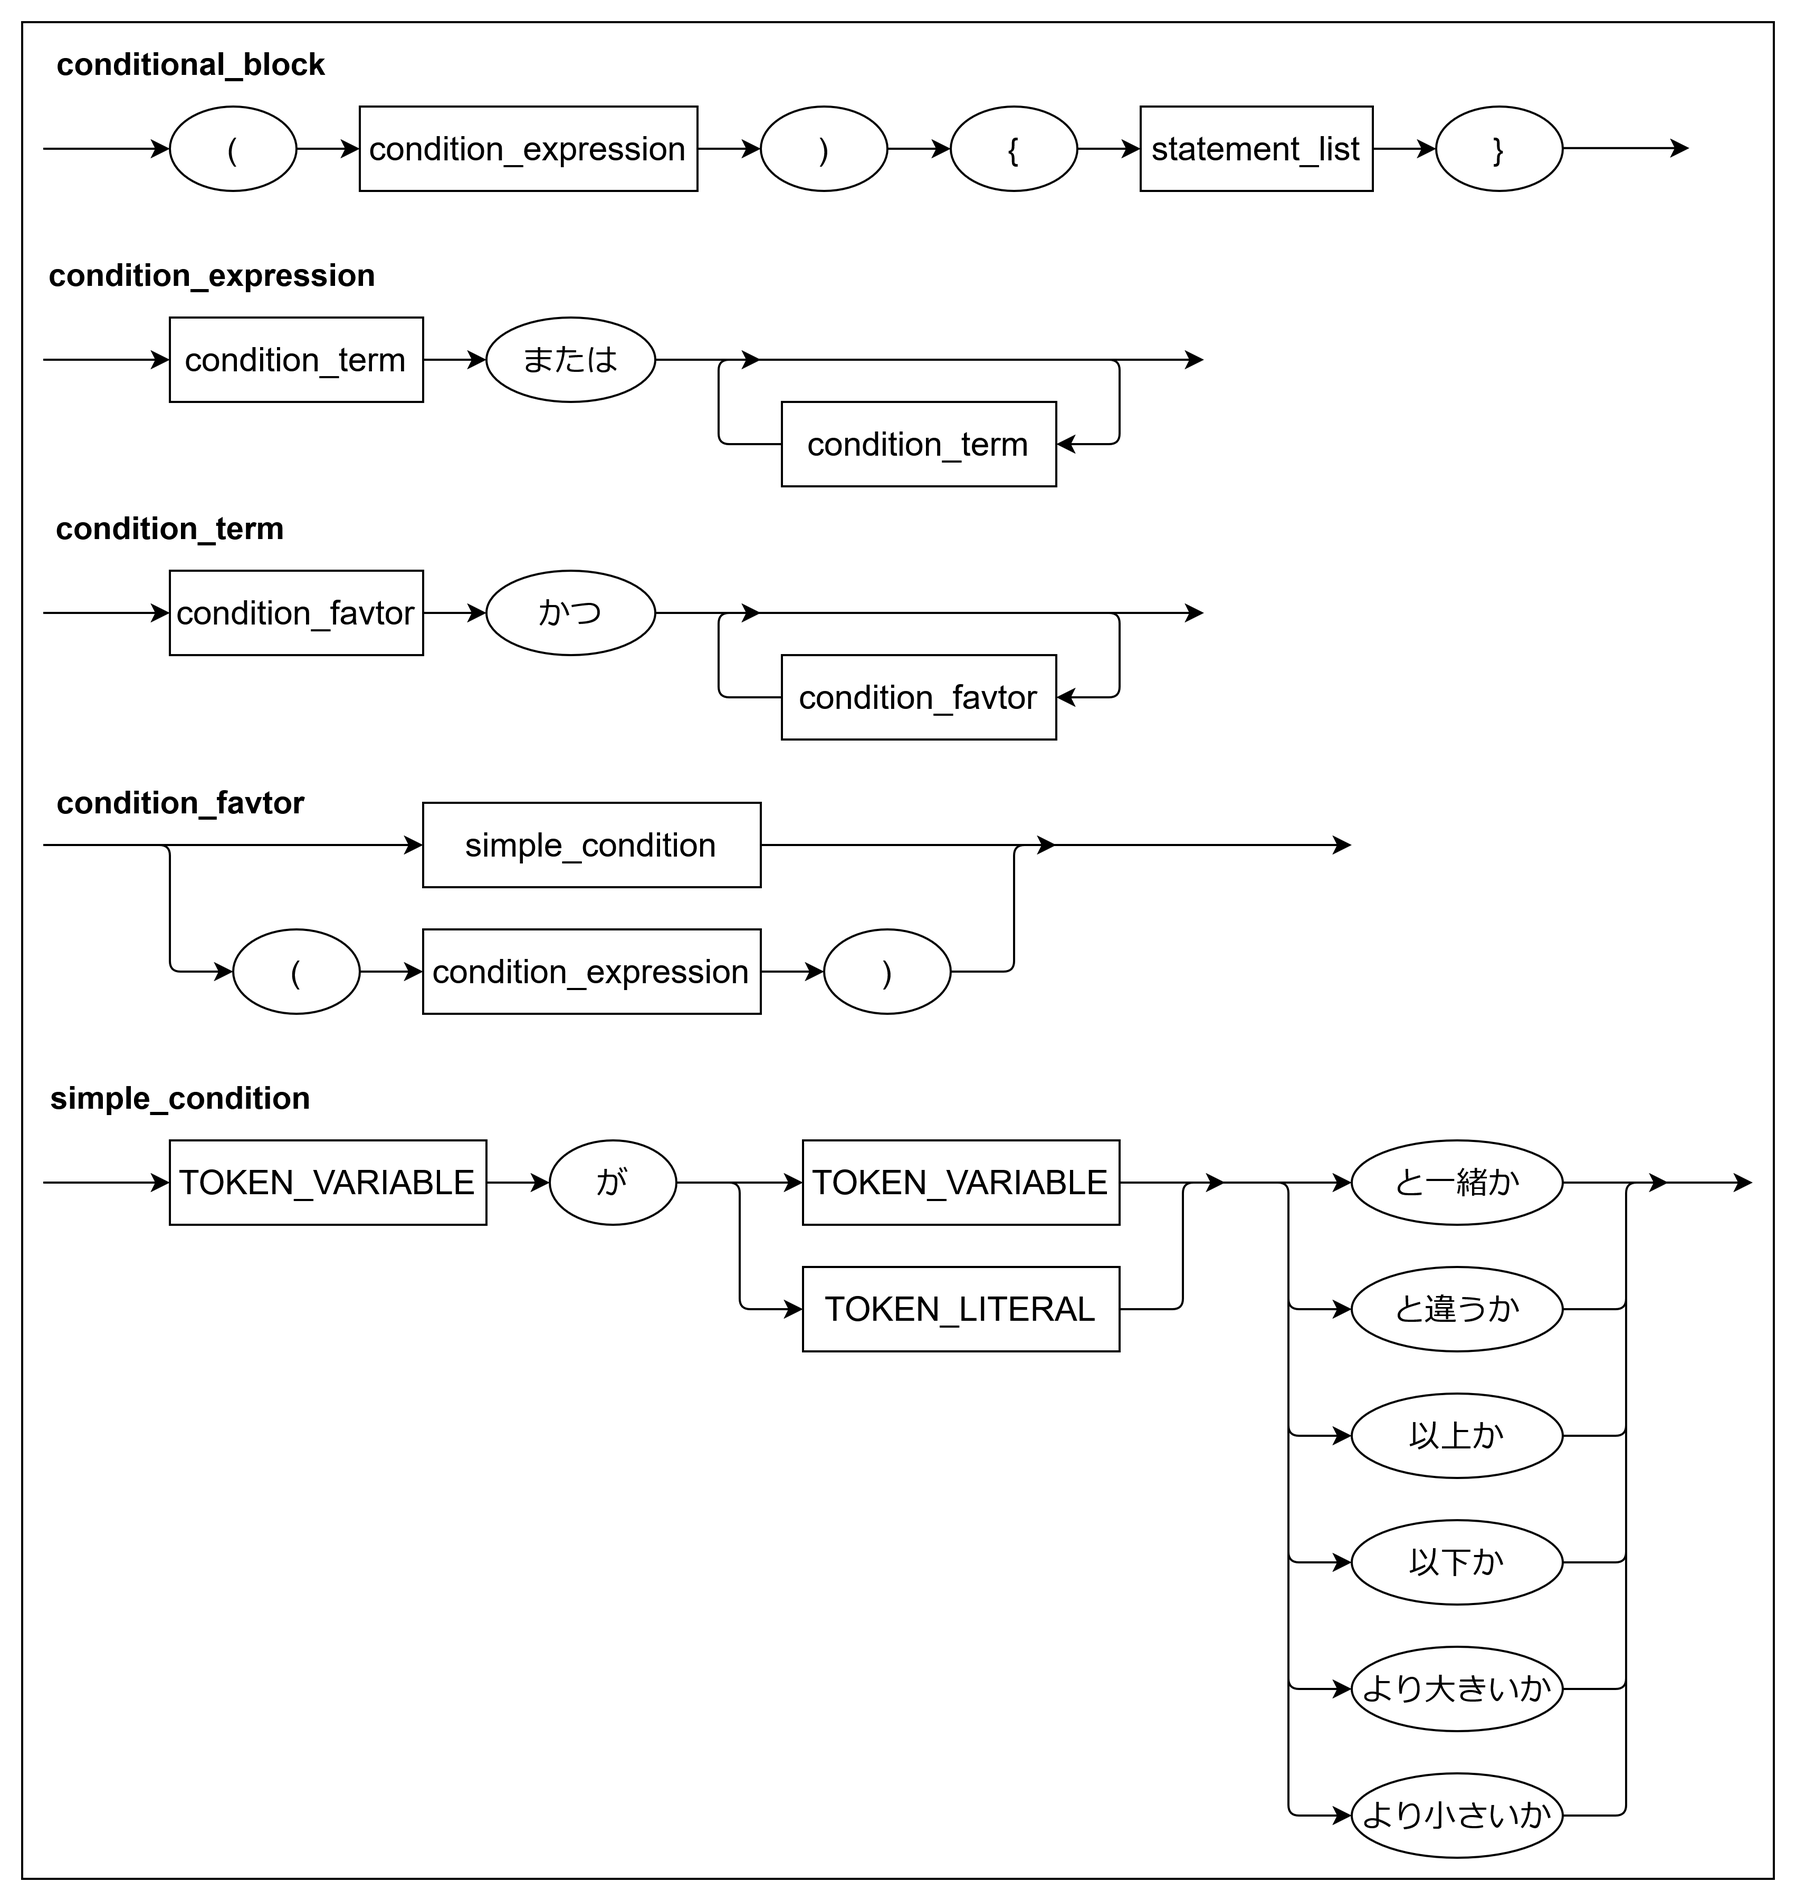
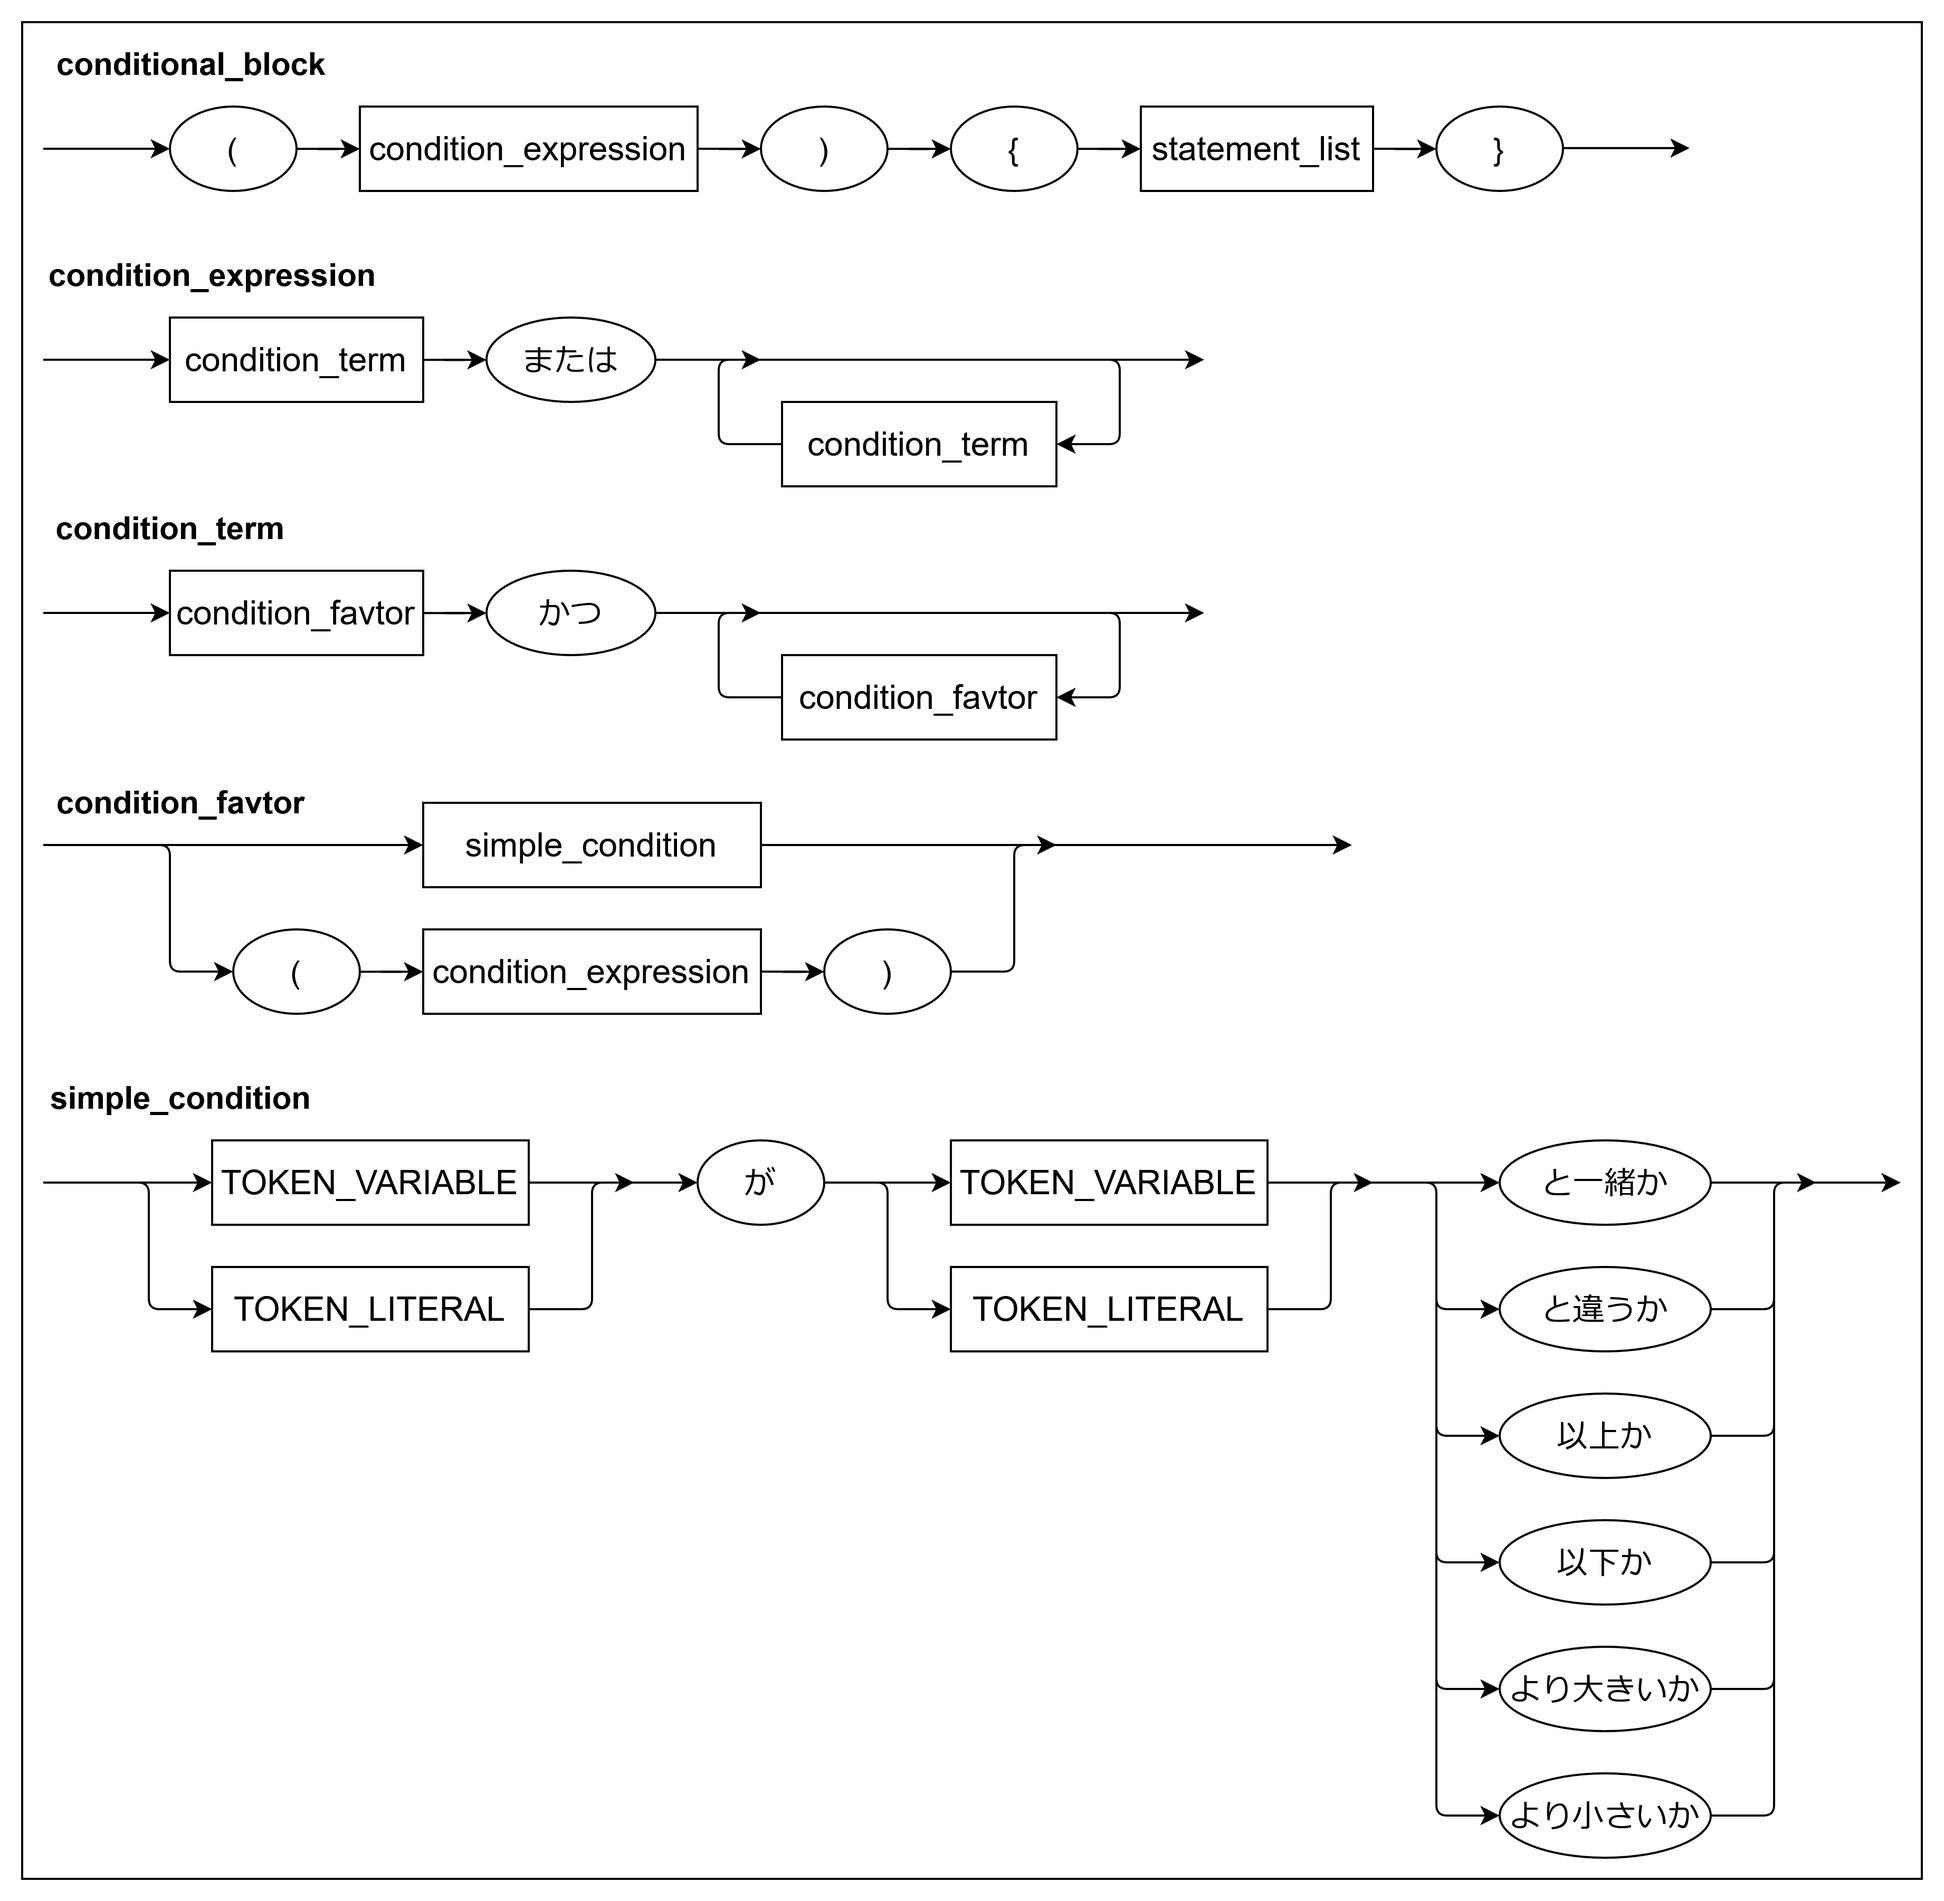
条件式の文法を修正し、先頭にも変数とリテラルの両方を使用できるように修正

diff --git a/docs/specification_document.md b/docs/specification_document.md
@@ -281,11 +281,11 @@ condition_term       ::= condition_factor { "かつ" condition_factor }
 condition_factor     ::= simple_condition
                        | "（" condition_expression "）"
 
-simple_condition    ::= TOKEN_VARIABLE "が" (TOKEN_LITERAL | TOKEN_VARIABLE) "以上か"
-                      | TOKEN_VARIABLE "が" (TOKEN_LITERAL | TOKEN_VARIABLE) "以下か"
-                      | TOKEN_VARIABLE "が" (TOKEN_LITERAL | TOKEN_VARIABLE) "より大きいか"
-                      | TOKEN_VARIABLE "が" (TOKEN_LITERAL | TOKEN_VARIABLE) "より小さいか"
-                      | TOKEN_VARIABLE "が" (TOKEN_LITERAL | TOKEN_VARIABLE) "と一緒か"
-                      | TOKEN_VARIABLE "が" (TOKEN_LITERAL | TOKEN_VARIABLE) "と違うか"
+simple_condition    ::= (TOKEN_LITERAL | TOKEN_VARIABLE) "が" (TOKEN_LITERAL | TOKEN_VARIABLE) "以上か"
+                      | (TOKEN_LITERAL | TOKEN_VARIABLE) "が" (TOKEN_LITERAL | TOKEN_VARIABLE) "以下か"
+                      | (TOKEN_LITERAL | TOKEN_VARIABLE) "が" (TOKEN_LITERAL | TOKEN_VARIABLE) "より大きいか"
+                      | (TOKEN_LITERAL | TOKEN_VARIABLE) "が" (TOKEN_LITERAL | TOKEN_VARIABLE) "より小さいか"
+                      | (TOKEN_LITERAL | TOKEN_VARIABLE) "が" (TOKEN_LITERAL | TOKEN_VARIABLE) "と一緒か"
+                      | (TOKEN_LITERAL | TOKEN_VARIABLE) "が" (TOKEN_LITERAL | TOKEN_VARIABLE) "と違うか"
 ```
 ![条件式関連](images/condition.png)
